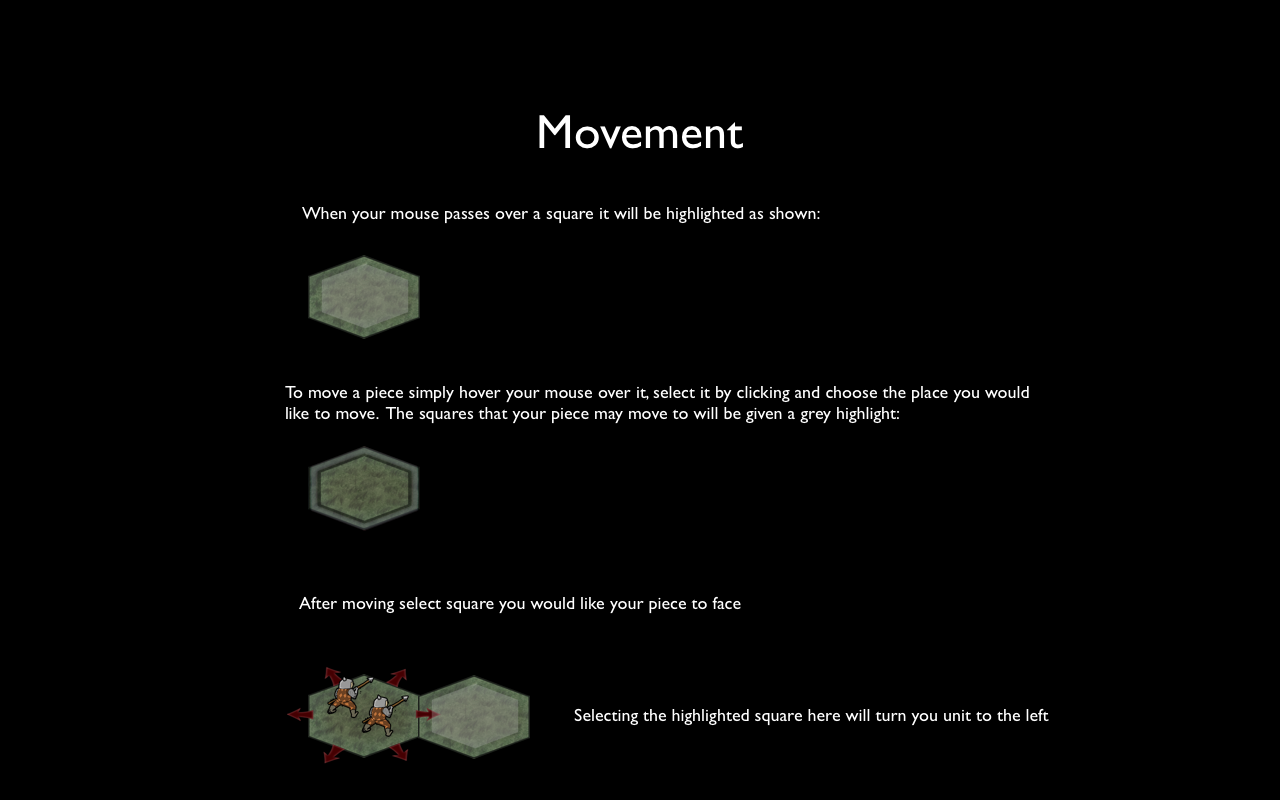
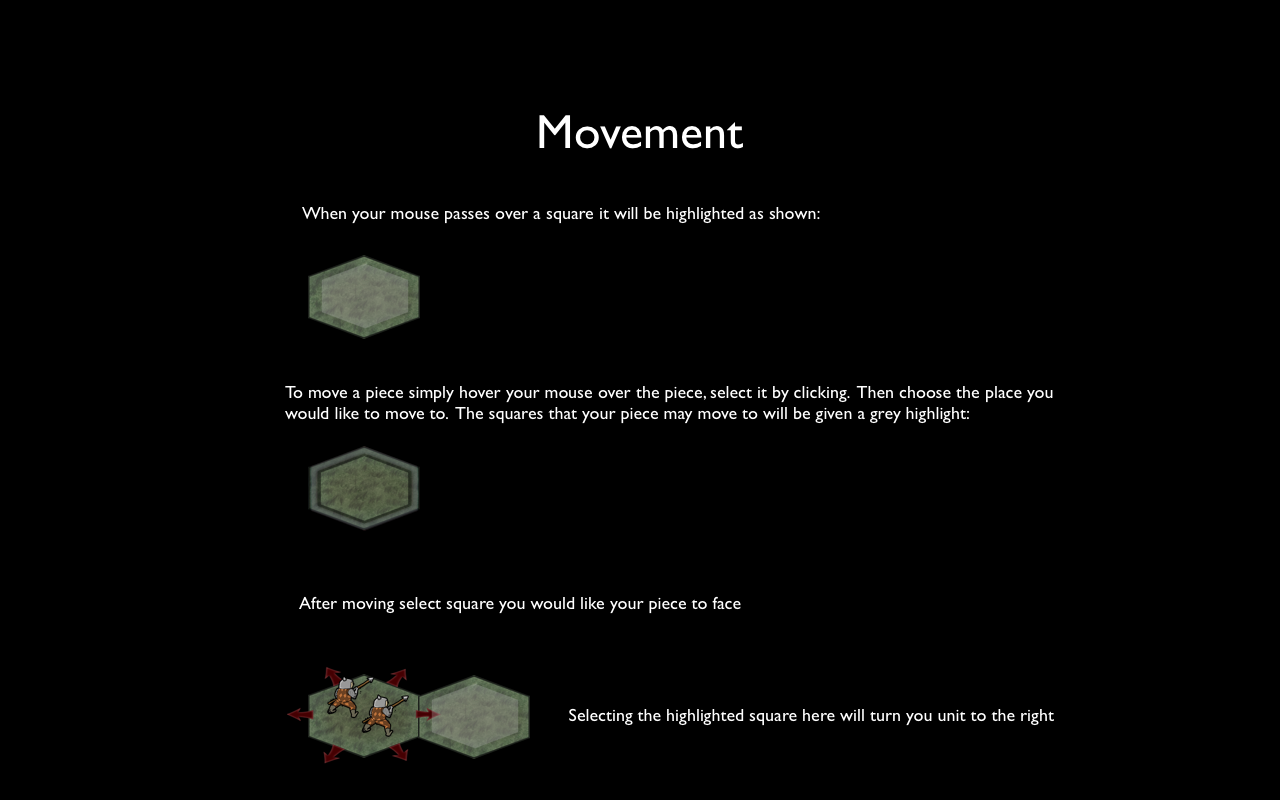
made some corrections to instructions page and added a miscellaneous page.  It isn't complete, it still needs buttons, but I thought it was too close to not have something at least

Changed region(s): [[0.2188, 0.4688, 0.8125, 0.5312], [0.4375, 0.875, 0.8125, 0.9062]]

diff --git a/Gaveldor 2/src/run/InstructionState.java b/Gaveldor 2/src/run/InstructionState.java
@@ -176,6 +176,8 @@ public class InstructionState extends BasicGameState {
         unit.getGraphics().flush();
         Image terrain = Resources.getImage("/assets/graphics/instructions/terrain.png");
         terrain.getGraphics().flush();
+        Image misc = Resources.getImage("/assets/graphics/instructions/misc.png");
+        misc.getGraphics().flush();
         Image forward = Resources.getImage("/assets/graphics/instructions/forward.png");
         forward.getGraphics().flush();
         Image backward = Resources.getImage("/assets/graphics/instructions/backward.png");
@@ -187,6 +189,7 @@ public class InstructionState extends BasicGameState {
         images.add(attack);
         images.add(unit);
         images.add(terrain);
+        images.add(misc);
         return images;
     }
 
